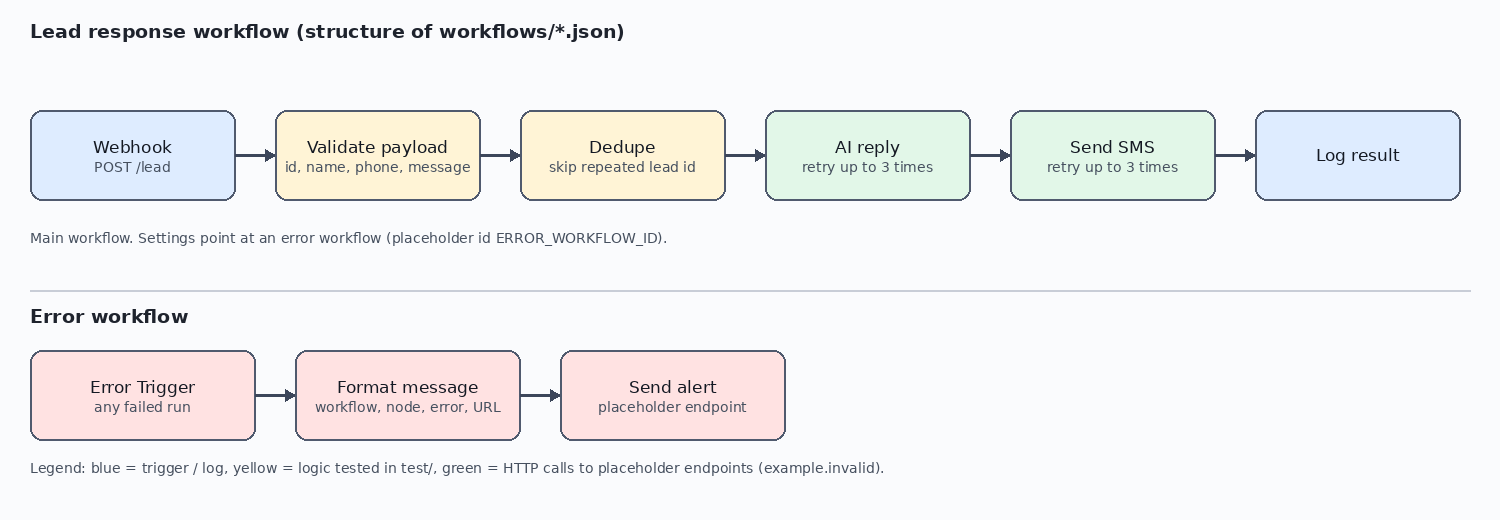
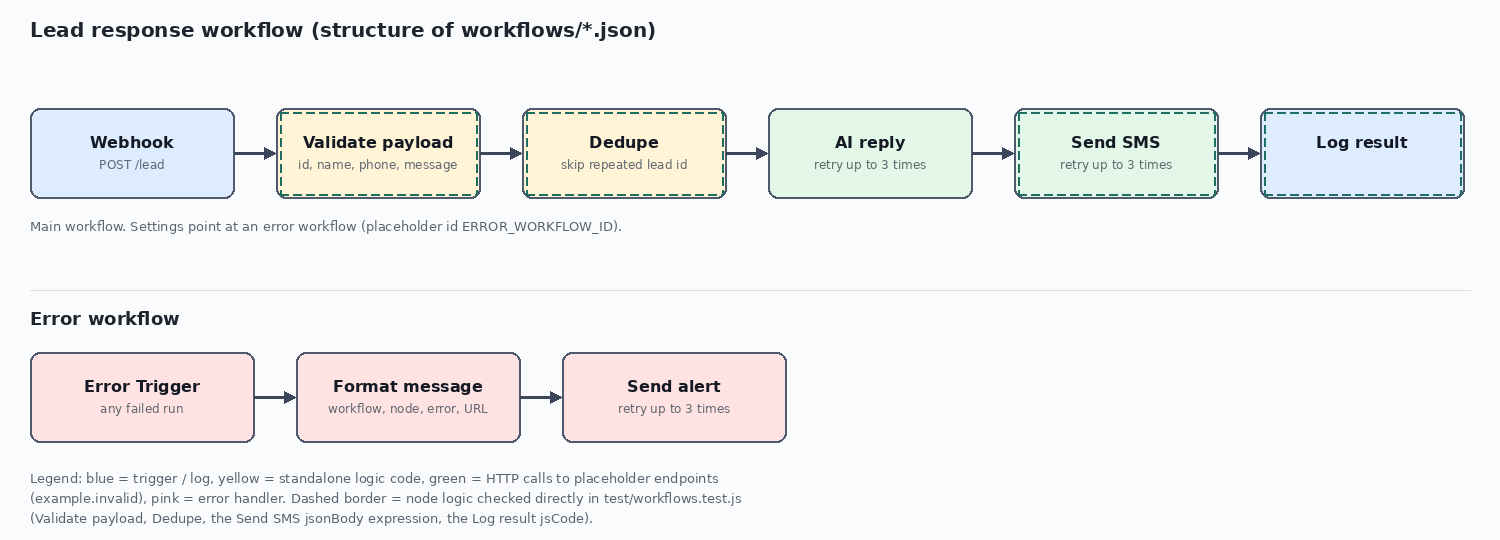
docs: mark Send SMS and Log result as covered in the diagram legend
The diagram's yellow legend and README text only credited Validate
payload and Dedupe with test coverage, but test/workflows.test.js also
runs the Send SMS jsonBody expression and the Log result jsCode.
Regenerate the diagram from the workflow JSON with a dashed border on
all four covered nodes, and reword the README legend note to match.

diff --git a/docs/generate-diagram.py b/docs/generate-diagram.py
@@ -1,0 +1,185 @@
+#!/usr/bin/env python3
+"""Redraws docs/workflow-diagram.png from the node/connection structure in
+workflows/*.json: node names, order and HTTP retry counts are read from the
+workflow files, not typed in by hand. Colour fill marks node kind (trigger /
+log, standalone logic, HTTP call to a placeholder endpoint, error handler);
+the dashed border marks which nodes have their actual logic (jsCode or an
+expression) run against assertions in test/workflows.test.js, which is
+tracked here since the test file is the source of truth for that, not the
+workflow JSON.
+"""
+
+import json
+import textwrap
+from PIL import Image, ImageDraw, ImageFont
+
+W = 1500
+BG = (250, 251, 253)
+BORDER = (80, 90, 110)
+ARROW = (60, 70, 90)
+TITLE = (30, 35, 45)
+NODE_TITLE = (20, 25, 35)
+NODE_SUB = (95, 103, 111)
+CAPTION = (90, 100, 112)
+TESTED_BORDER = (31, 110, 98)
+
+FILL = {
+    'blue': (222, 236, 255),
+    'yellow': (255, 244, 214),
+    'green': (226, 247, 232),
+    'pink': (255, 226, 226),
+}
+
+# Which nodes have their own logic (not just a round trip through them)
+# checked directly in test/workflows.test.js, and the fill colour for their
+# kind. These are facts about the test suite and about each node's role
+# (trigger/log vs validation vs logging vs a call to an external service),
+# which aren't recoverable from the workflow JSON alone.
+TESTED = {'Validate payload', 'Dedupe', 'Send SMS', 'Log result'}
+CATEGORY = {
+    'Webhook': 'blue',
+    'Validate payload': 'yellow',
+    'Dedupe': 'yellow',
+    'AI reply': 'green',
+    'Send SMS': 'green',
+    'Log result': 'blue',
+}
+
+FONT_DIR = '/usr/share/fonts/truetype/dejavu/'
+f_title = ImageFont.truetype(FONT_DIR + 'DejaVuSans-Bold.ttf', 20)
+f_node_title = ImageFont.truetype(FONT_DIR + 'DejaVuSans-Bold.ttf', 16)
+f_node_sub = ImageFont.truetype(FONT_DIR + 'DejaVuSans.ttf', 12)
+f_caption = ImageFont.truetype(FONT_DIR + 'DejaVuSans.ttf', 13)
+f_section = ImageFont.truetype(FONT_DIR + 'DejaVuSans-Bold.ttf', 18)
+
+
+def load_workflow(name):
+    with open('workflows/' + name) as f:
+        return json.load(f)
+
+
+def ordered_nodes(workflow, start_types):
+    by_name = {n['name']: n for n in workflow['nodes']}
+    start = next(n['name'] for n in workflow['nodes'] if n['type'] in start_types)
+    order = [start]
+    current = start
+    connections = workflow['connections']
+    while current in connections:
+        targets = connections[current].get('main', [[]])[0]
+        if not targets:
+            break
+        current = targets[0]['node']
+        order.append(current)
+    return [by_name[name] for name in order]
+
+
+def subtitle(node):
+    t = node['type']
+    p = node.get('parameters', {})
+    if t == 'n8n-nodes-base.webhook':
+        return '%s /%s' % (p.get('httpMethod', 'POST'), p.get('path', ''))
+    if t == 'n8n-nodes-base.httpRequest' and node.get('retryOnFail'):
+        return 'retry up to %d times' % node['maxTries']
+    if node['name'] == 'Validate payload':
+        return 'id, name, phone, message'
+    if node['name'] == 'Dedupe':
+        return 'skip repeated lead id'
+    if node['name'] == 'Error Trigger':
+        return 'any failed run'
+    if node['name'] == 'Format message':
+        return 'workflow, node, error, URL'
+    if node['name'] == 'Send alert':
+        return 'placeholder endpoint'
+    return ''
+
+
+lead_response = load_workflow('lead-response.json')
+error_handler = load_workflow('error-handler.json')
+
+lr_nodes = ordered_nodes(lead_response, {'n8n-nodes-base.webhook'})
+eh_nodes = ordered_nodes(error_handler, {'n8n-nodes-base.errorTrigger'})
+
+img = Image.new('RGB', (W, 900), BG)
+draw = ImageDraw.Draw(img)
+
+
+def rounded_box(xy, fill, dashed):
+    x0, y0, x1, y1 = xy
+    draw.rounded_rectangle(xy, radius=10, fill=fill, outline=BORDER, width=2)
+    if dashed:
+        dash, gap = 8, 5
+        for y in (y0 + 4, y1 - 4):
+            x = x0 + 4
+            while x < x1 - 4:
+                x2 = min(x + dash, x1 - 4)
+                draw.line([(x, y), (x2, y)], fill=TESTED_BORDER, width=2)
+                x += dash + gap
+        for x in (x0 + 4, x1 - 4):
+            y = y0 + 4
+            while y < y1 - 4:
+                y2 = min(y + dash, y1 - 4)
+                draw.line([(x, y), (x, y2)], fill=TESTED_BORDER, width=2)
+                y += dash + gap
+
+
+def draw_node(x, y, w, h, title, sub, fill, dashed):
+    xy = (x, y, x + w, y + h)
+    rounded_box(xy, FILL[fill], dashed)
+    tw = draw.textlength(title, font=f_node_title)
+    draw.text((x + (w - tw) / 2, y + h / 2 - 20), title, font=f_node_title, fill=NODE_TITLE)
+    sw = draw.textlength(sub, font=f_node_sub)
+    draw.text((x + (w - sw) / 2, y + h / 2 + 4), sub, font=f_node_sub, fill=NODE_SUB)
+    return xy
+
+
+def arrow(x0, y, x1):
+    draw.line([(x0, y), (x1 - 12, y)], fill=ARROW, width=3)
+    draw.polygon([(x1, y), (x1 - 12, y - 6), (x1 - 12, y + 6)], fill=ARROW)
+
+
+draw.text((30, 18), 'Lead response workflow (structure of workflows/*.json)', font=f_title, fill=TITLE)
+
+row_y = 108
+box_w, box_h, gap = 204, 90, 42
+boxes = []
+x = 30
+for n in lr_nodes:
+    cat = CATEGORY[n['name']]
+    boxes.append(draw_node(x, row_y, box_w, box_h, n['name'], subtitle(n), cat, n['name'] in TESTED))
+    x += box_w + gap
+
+for (x0, y0, x1, y1), nxt in zip(boxes, boxes[1:]):
+    arrow(x1, row_y + box_h / 2, nxt[0])
+
+draw.text((30, row_y + box_h + 20),
+          'Main workflow. Settings point at an error workflow (placeholder id ERROR_WORKFLOW_ID).',
+          font=f_caption, fill=CAPTION)
+
+draw.line([(30, 290), (W - 30, 290)], fill=(220, 222, 228), width=1)
+draw.text((30, 308), 'Error workflow', font=f_section, fill=TITLE)
+
+eh_y = 352
+eh_w, eh_h = 224, 90
+eh_boxes = []
+x = 30
+for n in eh_nodes:
+    eh_boxes.append(draw_node(x, eh_y, eh_w, eh_h, n['name'], subtitle(n), 'pink', n['name'] in TESTED))
+    x += eh_w + gap
+
+for (x0, y0, x1, y1), nxt in zip(eh_boxes, eh_boxes[1:]):
+    arrow(x1, eh_y + eh_h / 2, nxt[0])
+
+legend = (
+    'Legend: blue = trigger / log, yellow = standalone logic code, green = HTTP calls to '
+    'placeholder endpoints (example.invalid), pink = error handler. Dashed border = node '
+    'logic checked directly in test/workflows.test.js (Validate payload, Dedupe, the Send SMS '
+    'jsonBody expression, the Log result jsCode).'
+)
+ly = eh_y + eh_h + 28
+for line in textwrap.wrap(legend, width=118):
+    draw.text((30, ly), line, font=f_caption, fill=CAPTION)
+    ly += 20
+
+img = img.crop((0, 0, W, ly + 10))
+img.save('docs/workflow-diagram.png')
+print('saved', img.size)

diff --git a/README.md b/README.md
@@ -49,12 +49,16 @@ editor canvas), is in
 
 ![Workflow structure](docs/workflow-diagram.png)
 
-The diagram's legend marks Validate payload and Dedupe yellow for "logic
-tested in test/". That refers to the `jsCode` actually embedded in those two
-Code nodes: `test/workflows.test.js` runs those strings directly (not just
-the standalone copies in `src/`) and checks the result against
-`src/validate.js` / `src/dedupe.js`, so the node code and the extracted
-module can't silently drift apart - see [Tests](#tests).
+The diagram's legend marks Validate payload, Dedupe, Send SMS and Log result
+with a dashed border for "logic checked directly in test/". For Validate
+payload and Dedupe, that means `test/workflows.test.js` runs the `jsCode`
+actually embedded in those two Code nodes (not just the standalone copies in
+`src/`) and checks the result against `src/validate.js` / `src/dedupe.js`, so
+the node code and the extracted module can't silently drift apart. For Send
+SMS and Log result, there's no standalone `src/` copy to compare against -
+instead the test runs the `jsonBody` expression and `jsCode` with stand-in
+HTTP responses to confirm the lead's `phone` and `id` survive both HTTP
+Request nodes - see [Tests](#tests).
 
 ## How to run it
 
